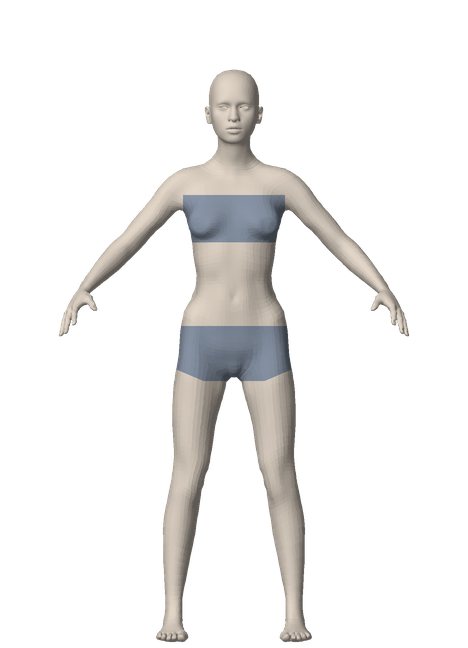
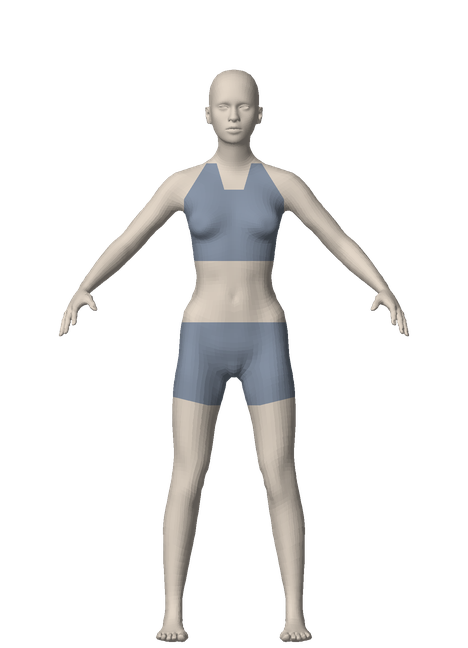
Manekenas labiau uždengtas: sportinė palaidinukė ir šortukai
Claude-Session: https://claude.ai/code/session_01Bz1C2vWCkjrw6mYgVdEcvR

diff --git a/tools/mh_wardrobe.py b/tools/mh_wardrobe.py
@@ -336,16 +336,19 @@ def details(img, kind, v, sx, sy):
     return img
 
 def underwear(img_skin, img_cloth, v, female, sx, sy):
+    """Neutralus bazinis sluoksnis: šortukai visiems, moteriai – sportinė palaidinukė."""
     pelvis, neck = J(v, "pelvis"), J(v, "neck")
     leg, shoulder = J(v, "l-upper-leg"), J(v, "l-shoulder")
     L = neck[1] - pelvis[1]
     hw = abs(leg[0]) * 2.6
-    top, outer, crotch = pelvis[1] + 0.10 * L, leg[1] - 0.04 * L, leg[1] - 0.17 * L
-    shapes = [[(-hw, top), (hw, top), (hw, outer), (0.35 * hw, crotch), (-0.35 * hw, crotch), (-hw, outer)]]
+    top, outer, crotch = pelvis[1] + 0.12 * L, leg[1] - 0.22 * L, leg[1] - 0.30 * L
+    shapes = [[(-hw, top), (hw, top), (hw, outer), (0.3 * hw, crotch), (-0.3 * hw, crotch), (-hw, outer)]]
     if female:
-        sw = abs(shoulder[0]) * 0.92
-        y1, y2 = pelvis[1] + 0.55 * L, pelvis[1] + 0.80 * L
-        shapes.append([(-sw, y2), (sw, y2), (sw, y1), (-sw, y1)])
+        sw = abs(shoulder[0]) * 0.9
+        y1, y_side, y2 = pelvis[1] + 0.45 * L, pelvis[1] + 0.78 * L, pelvis[1] + 0.97 * L
+        shapes.append([(-sw, y1), (sw, y1), (sw, y_side), (0.55 * sw, y2), (0.35 * sw, y2),
+                       (0.2 * sw, y_side + 0.05 * L), (-0.2 * sw, y_side + 0.05 * L),
+                       (-0.35 * sw, y2), (-0.55 * sw, y2), (-sw, y_side)])
     mask = Image.new("L", (W, H), 0)
     md = ImageDraw.Draw(mask)
     for s in shapes:
@@ -384,6 +387,8 @@ for gname, gval in (("female", 0.0), ("male", 1.0)):
         # Manekenui švelniai išlyginam krūtinės/liemens smulkmenas
         vb = smooth(v, 3, mask=(PART == "torso") & (Y > PELVIS_Y + 1.5))
         vb = smooth(vb, 40, mask=TIP_ZONE, taubin=False)
+        if gname == "female":   # po palaidinuke – lygi krūtinės forma be smulkmenų
+            vb = smooth(vb, 30, mask=(PART == "torso") & (Y > PELVIS_Y + 1.6), taubin=True)
         skin, sx, sy = draw_layer(vb, SKIN, ctx=ctx)
         cloth, _, _ = draw_layer(vb, UNDER, ctx=ctx)
         save(underwear(skin, cloth, v, gname == "female", sx, sy), os.path.join(OUT, fig, "body.png"))
